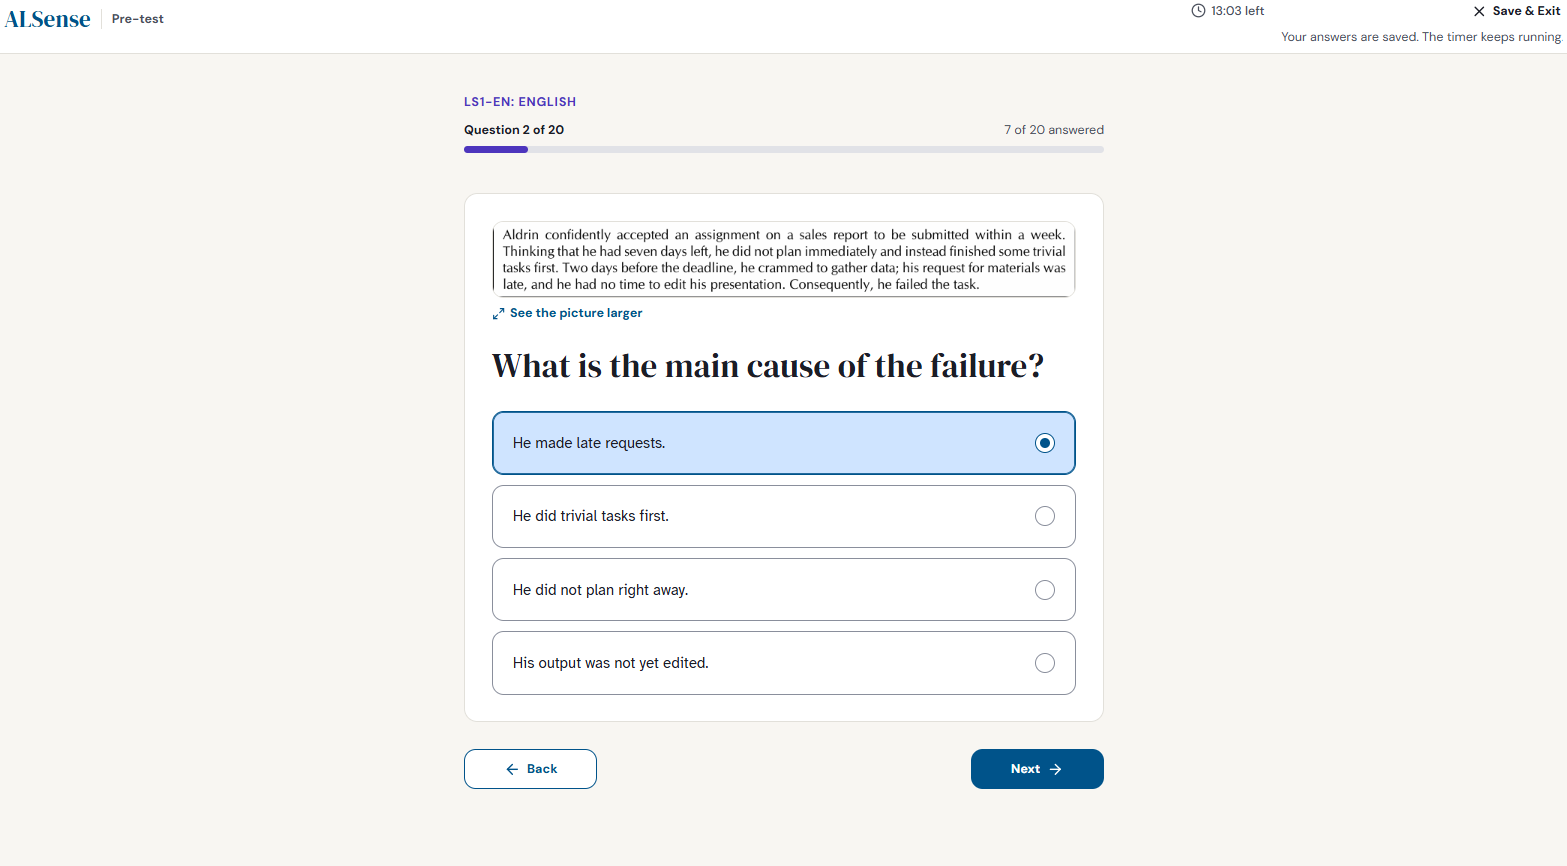
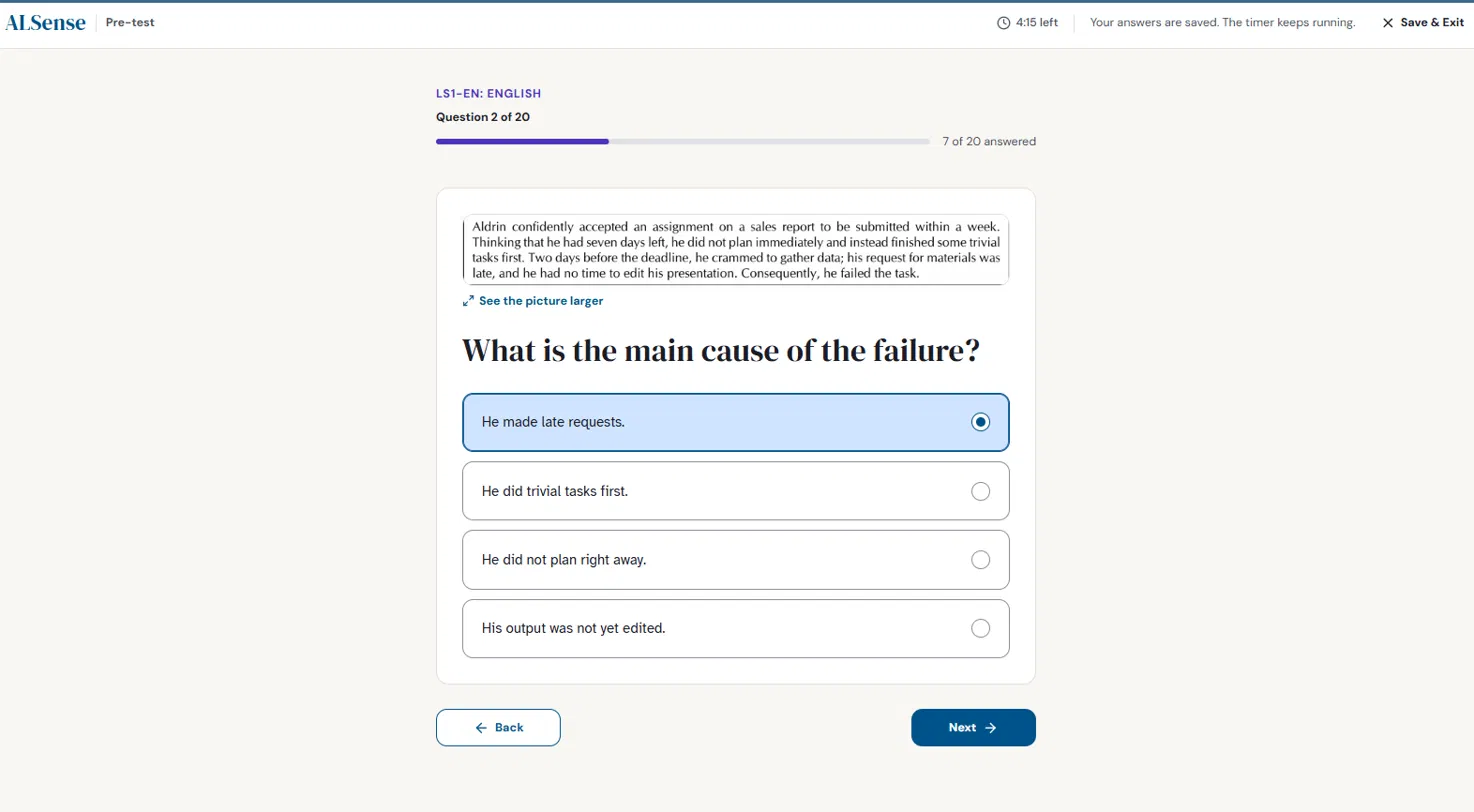
Update critique evidence: refreshed after screenshot, add auto-submit success screenshot

diff --git a/docs/critique/pretest-question-after.md b/docs/critique/pretest-question-after.md
@@ -4,8 +4,9 @@
 - **Checked against:** the Gestalt Principles section of `DESIGN.md` (commit `c87b0624`) and the M02 P2 Question Screen mockup. The same method as `pretest-question-before.md`.
 - **Date:** 2026-10-05, branch `ui-polish`.
 - **Evidence:** the source code, plus the author's browser screenshots in `docs/critique/` (sizes in pixels). No browser check was run for this review, and no answers were submitted.
-  - `pretest-question-after.png` (1567 × 866): question 2 of 20 of the English diagnostic exam, with a passage image, the first option selected, "7 of 20 answered" and 13:03 left. **It was taken before `d9972c95`.** So it still shows the old header (items pinned to the top edge, the exit hint stacked under "Save & Exit") and a progress bar that follows the question position (about 10% filled while 7 of 20 are answered). Both are described below as they are in the code now, not as in this image. The page was zoomed out: the 768px column measures about 640px, so everything appears at about 83% of its CSS size (the 18px answer text shows as about 15px).
+  - `pretest-question-after.png` (1567 × 866): question 2 of 20 of the English diagnostic exam, with a passage image, the first option selected, "7 of 20 answered" and 13:03 left. It was taken after the header and progress-bar fixes (`d9972c95`), so it shows the single-row header and a bar that follows the answered count. The page was zoomed out: the 768px column measures about 640px, so everything appears at about 83% of its CSS size (the 18px answer text shows as about 15px).
   - `pretest-question-image-dialog-after.png` (1565 × 882): the question 2 passage opened in the picture dialog, titled "Picture for question 2" with "Close" at the top right. It was taken after `d9972c95`: behind the dim overlay, the header shows the new single row with the inline hint ("9:19 left | Your answers are saved. The timer keeps running. | Save & Exit"). The passage is shown about 850px wide, so it reads at roughly twice its in-card size. The page is zoomed out by the same amount as the first screenshot.
+  - `pretest-question-timeout-submitted-after.png`: the success screen after the attempt was auto-submitted when the timer reached 0:00. It was taken before the time's-up message change, so it still shows the standard "Thank you for completing this." text. The author tested auto-submit at 0:00 and it worked.
 - **Scope:** this is a focused Gestalt review done by one reviewer, the same as the before file. The design skill's automated check (`impeccable detect`) found nothing on the file. The LRI table and the overview modal before Start were left unchanged on purpose and aren't scored here.
 
 ## Scorecard
